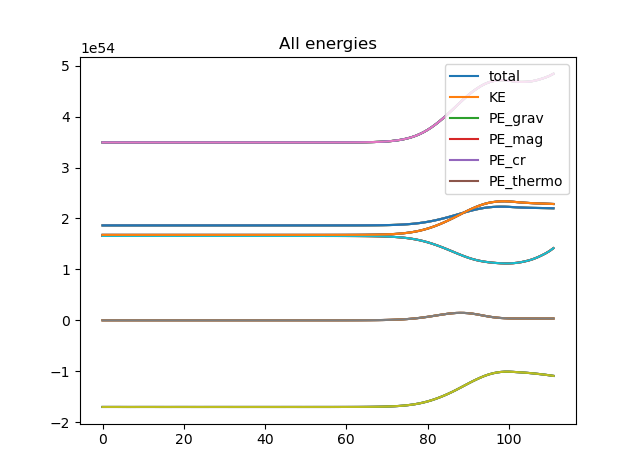
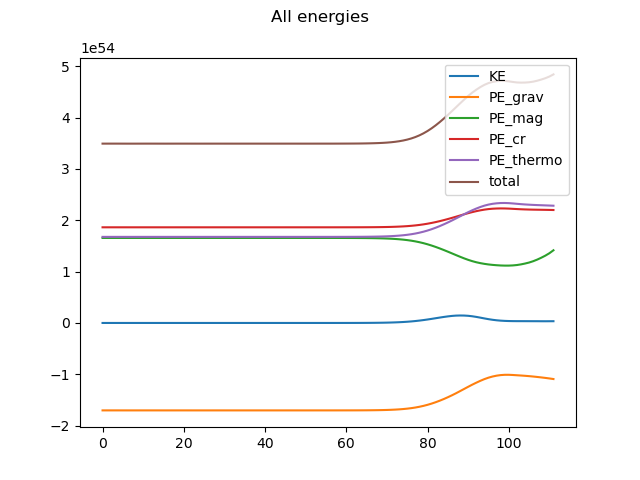
fixed labels, implemented variation plotting

diff --git a/Conservation.py b/Conservation.py
@@ -17,7 +17,8 @@ filedirectory = "/Users/bwong/Downloads/URS_Data/m2_c1_16x8_64x64/More Plot File
 pwd = "/Users/bwong/URS_FLASH_DataParker"
 #%%
 import yt
-from yt.units import *
+#adjust units as needed, otherwise it's alot
+from yt.units import cm, kpc, erg, g, dyne
 import os
 import os.path
 from os import path
@@ -193,33 +194,30 @@ for field in energytotals.keys():
         print("\tMin: \t" + str(np.min(energytotals[field])))
         
 #%%
-#plot things
+## plot energy total
+plt.close()
 plt.plot(timeStamps, energytotals['total'])
 plt.title("Total energy")
 plt.savefig(pwd + '/Conservation/TotalEnergy')
 
-#plot all energies on one plot
-fields = []
+#%%
+## plot all energies on one plot
+plt.close()
 fig, ax = plt.subplots()
 for field in energytotals:
-    ax.plot(timeStamps, energytotals[field])
-    fields.append(field)
+    ax.plot(timeStamps, energytotals[field], label=field)
 fig.suptitle("All energies")
-ax.legend(fields)
+ax.legend()
+## fields in order
+# ax.legend(['total', 'KE', 'PE_cr', 'PE_thermo','PE_mag', 'PE_grav'])
 fig.savefig(pwd + '/Conservation/AllEnergies')
 print("Plotting finished.")
-# fields = []
-# for field in energytotals:
-#     plt.plot(timeStamps, energytotals[field])
-#     fields.append(field)
-# plt.title("All energies; variation")
-# plt.legend(fields)
-# plt.savefig(pwd + '/Conservation/AllEnergies')
-# print("Plotting finished.")
-
 
 #%%
 ## plot variation of energies from initial values
+plt.clf()
+plt.close()
+
 initValues = {
             "KE":          energytotals["KE"][0],
             "PE_grav":     energytotals["PE_grav"][0],
@@ -235,17 +233,25 @@ variation = {'total':[],
             'PE_cr': [], 
             'PE_thermo': []} 
 for i in timeStamps:
-    for field in energytotals.keys():
-        variation[field].append(energytotals[field][i]-initValues[field])
+    for field in variation.keys():
+        variation[field].append( energytotals[field][int(i)] - initValues[field] )
 
-fields = []
-for field in energytotals:
-    plt.plot(timeStamps, variation[field])
-    fields.append(field)
-plt.title("All energies; variation")
-plt.legend(fields)
-plt.savefig(pwd + '/Conservation/Variation')
+fig, ax = plt.subplots()
+for field in variation:
+    ax.plot(timeStamps, variation[field], label=field)
+# ax.set_yscale('symlog')
+fig.suptitle("All energies; variation")
+ax.legend()
+fig.savefig(pwd + '/Conservation/VariationB')
 print("Plotting finished.")
+
+
+#%%
+## just the total mass log for testing
+fig, ax = plt.subplots()
+ax.plot(timeStamps, variation['total'])
+ax.set_yscale('symlog')
+fig.suptitle("Total energy; log variation")
 
 #%%
 ### READ csv
